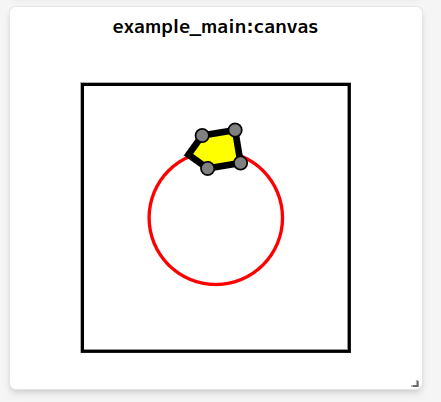
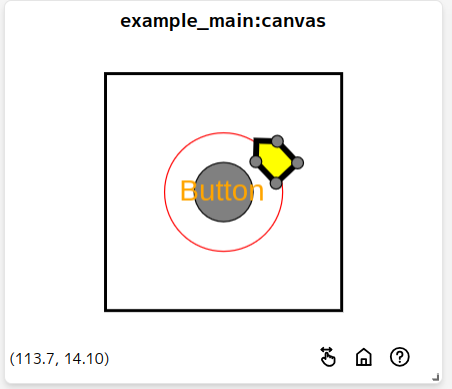
ドキュメント更新

Changed region(s): [[0.0, 0.1851, 0.9728, 1.0], [0.3243, 0.3085, 0.678, 0.7095], [0.2358, 0.0308, 0.737, 0.0925]]

diff --git a/src/include/webcface/canvas_data.h b/src/include/webcface/canvas_data.h
@@ -483,7 +483,7 @@ class TemporalComponent {
     /*!
      * \brief 色
      *
-     * Viewの要素では textColor を設定する
+     * Viewの要素では textColor として設定される
      */
     TemporalComponent &color(ViewColor c)
         requires(V || C2 || C3)
@@ -502,7 +502,7 @@ class TemporalComponent {
     /*!
      * \brief 文字色 (Viewまたは2D)
      *
-     * Canvas2DのTextでは fillColor を設定する
+     * Canvas2DのTextでは fillColor が文字色の代わりに使われている
      */
     TemporalComponent &textColor(ViewColor c)
         requires(V || C2)

diff --git a/docs/21_robot_model.md b/docs/21_robot_model.md
@@ -21,32 +21,36 @@ Client::robotModel からRobotModelオブジェクトを作り、 RobotModel::se
 <div class="tabbed">
 
 - <b class="tab-title">C++</b>
+    \note <span class="since-c">1.9</span> add関数と << 演算子を追加し、
+    まとめてsetする代わりにViewと同様1つずつaddし最後にsyncする使い方ができるようになりました
+
     例
     ```cpp
     using namespace webcface::RobotJoints;
     using namespace webcface::Geometries;
-    wcli.robotModel("omniwheel")
-        .set({{"base", box({-0.2, -0.2, 0.04}, {0.2, 0.2, 0.06}),
-               webcface::ViewColor::inherit},
-              {"wheel_lf",
-               rotationalJoint(
-                   "joint_lf", "base",
-                   {0.2, 0.2, 0.05, -std::numbers::pi / 4, 0, 0}),
-               cylinder({0, 0, 0, std::numbers::pi / 2, 0, 0}, 0.05, 0.01),
-               webcface::ViewColor::inherit},
-              {"wheel_rf",
-               rotationalJoint(
-                   "joint_rf", "base",
-                   {0.2, -0.2, 0.05, std::numbers::pi / 4, 0, 0}),
-               cylinder({0, 0, 0, std::numbers::pi / 2, 0, 0}, 0.05, 0.01),
-               webcface::ViewColor::inherit},
-               // ... 省略
-              {"line2",
-               rotationalJoint("line_rotation", "line1",
-                               {0, 0, 0.3, 0, 0, 0}),
-               line({0, 0, 0}, {0.5, 0, 0}),
-               webcface::ViewColor::red}
-        });
+    auto m = wcli.robotModel("omniwheel")
+    m.add({"base", box({-0.2, -0.2, 0.04}, {0.2, 0.2, 0.06}),
+           webcface::ViewColor::inherit})
+     .add({"wheel_lf",
+           rotationalJoint(
+               "joint_lf", "base",
+               {0.2, 0.2, 0.05, -std::numbers::pi / 4, 0, 0}),
+           cylinder({0, 0, 0, std::numbers::pi / 2, 0, 0}, 0.05, 0.01),
+           webcface::ViewColor::inherit})
+     .add({"wheel_rf",
+           rotationalJoint(
+               "joint_rf", "base",
+               {0.2, -0.2, 0.05, std::numbers::pi / 4, 0, 0}),
+           cylinder({0, 0, 0, std::numbers::pi / 2, 0, 0}, 0.05, 0.01),
+           webcface::ViewColor::inherit})
+     // ... 省略
+     .add({"line2",
+           rotationalJoint("line_rotation", "line1",
+                           {0, 0, 0.3, 0, 0, 0}),
+           line({0, 0, 0}, {0.5, 0, 0}),
+           webcface::ViewColor::red});
+    m.sync();
+    wcli.sync();
     ```
     (この謎のロボット何)
 

diff --git a/docs/14_canvas2d.md b/docs/14_canvas2d.md
@@ -72,9 +72,9 @@ Pointでは x, y 座標、Transformでは回転角(radianで、 (x, y) = (1, 0) 
     [View](./13_view.md)と同様に Canvas2D::add() または operator<< で要素を追加し、
     最後にCanvas2D::sync()をしてからClient::sync()をすることで送信されます。
 
-    \note ver1.9からadd関数の仕様を変更し << 演算子も実装して、Viewと同じ使い方になりました
+    \note <span class="since-c">1.9</span> add関数の仕様を変更し << 演算子も実装して、Viewと同じ使い方になりました
 
-    例 <span class="since-c">1.9</span> (src/example/main.cc も参照)
+    例 (src/example/main.cc も参照)
     ```cpp
     webcface::Canvas2D canvas = wcli.canvas2D("canvas");
     canvas.init(100, 100);
@@ -229,8 +229,6 @@ canvas.add(
 addの引数に表示したいgeometryと、表示する位置の平行移動or回転、枠線の色、塗りつぶしの色、枠線の太さを指定します。
 詳細は webcface::Canvas2D::add を参照してください
 
-C++ではGeometryは webcface::Geometries 名前空間に定義されていますが、`webcface::` の名前空間でもアクセス可能です。
-
 </details>
 
 
@@ -273,7 +271,7 @@ PythonではCanvas3Dとの兼ね合いで第1引数はTransform
 polygon(std::vector<Point> points)
 ```
 
-## 文字列の表示
+### 文字列の表示
 
 <div class="tabbed">
 

diff --git a/docs/00_overview.md b/docs/00_overview.md
@@ -196,16 +196,22 @@ WebUIでは最大10fpsで画像を表示できます。
 
 WebUI上で2次元の図形を描画することができます。
 
+また、Viewのように特定の部分をクリックしたときに関数を実行させることもできUIとしても使えます。
+
 ![tutorial_canvas2d.png](https://github.com/na-trium-144/webcface/raw/main/docs/images/tutorial_canvas2d.png)
+
+WebUIではマウス操作やタッチ操作で画面を動かしたり拡大縮小できます。
+右下のアイコンから操作説明が見れます。
 
 ### Canvas3D
 3D空間上のオブジェクト配置データを送受信する型です。
 
 WebUI上で3次元の図形を描画することができます。
 
-ドラッグで回転、Ctrl+ドラッグ(またはホイールを押しながらドラッグ)で移動、スクロールで拡大縮小ができます。
-
 ![tutorial_canvas3d.png](https://github.com/na-trium-144/webcface/raw/main/docs/images/tutorial_canvas3d.png)
+
+WebUIではマウス操作やタッチ操作で画面を動かしたり拡大縮小できます。
+右下のアイコンから操作説明が見れます。
 
 ### RobotModel
 
